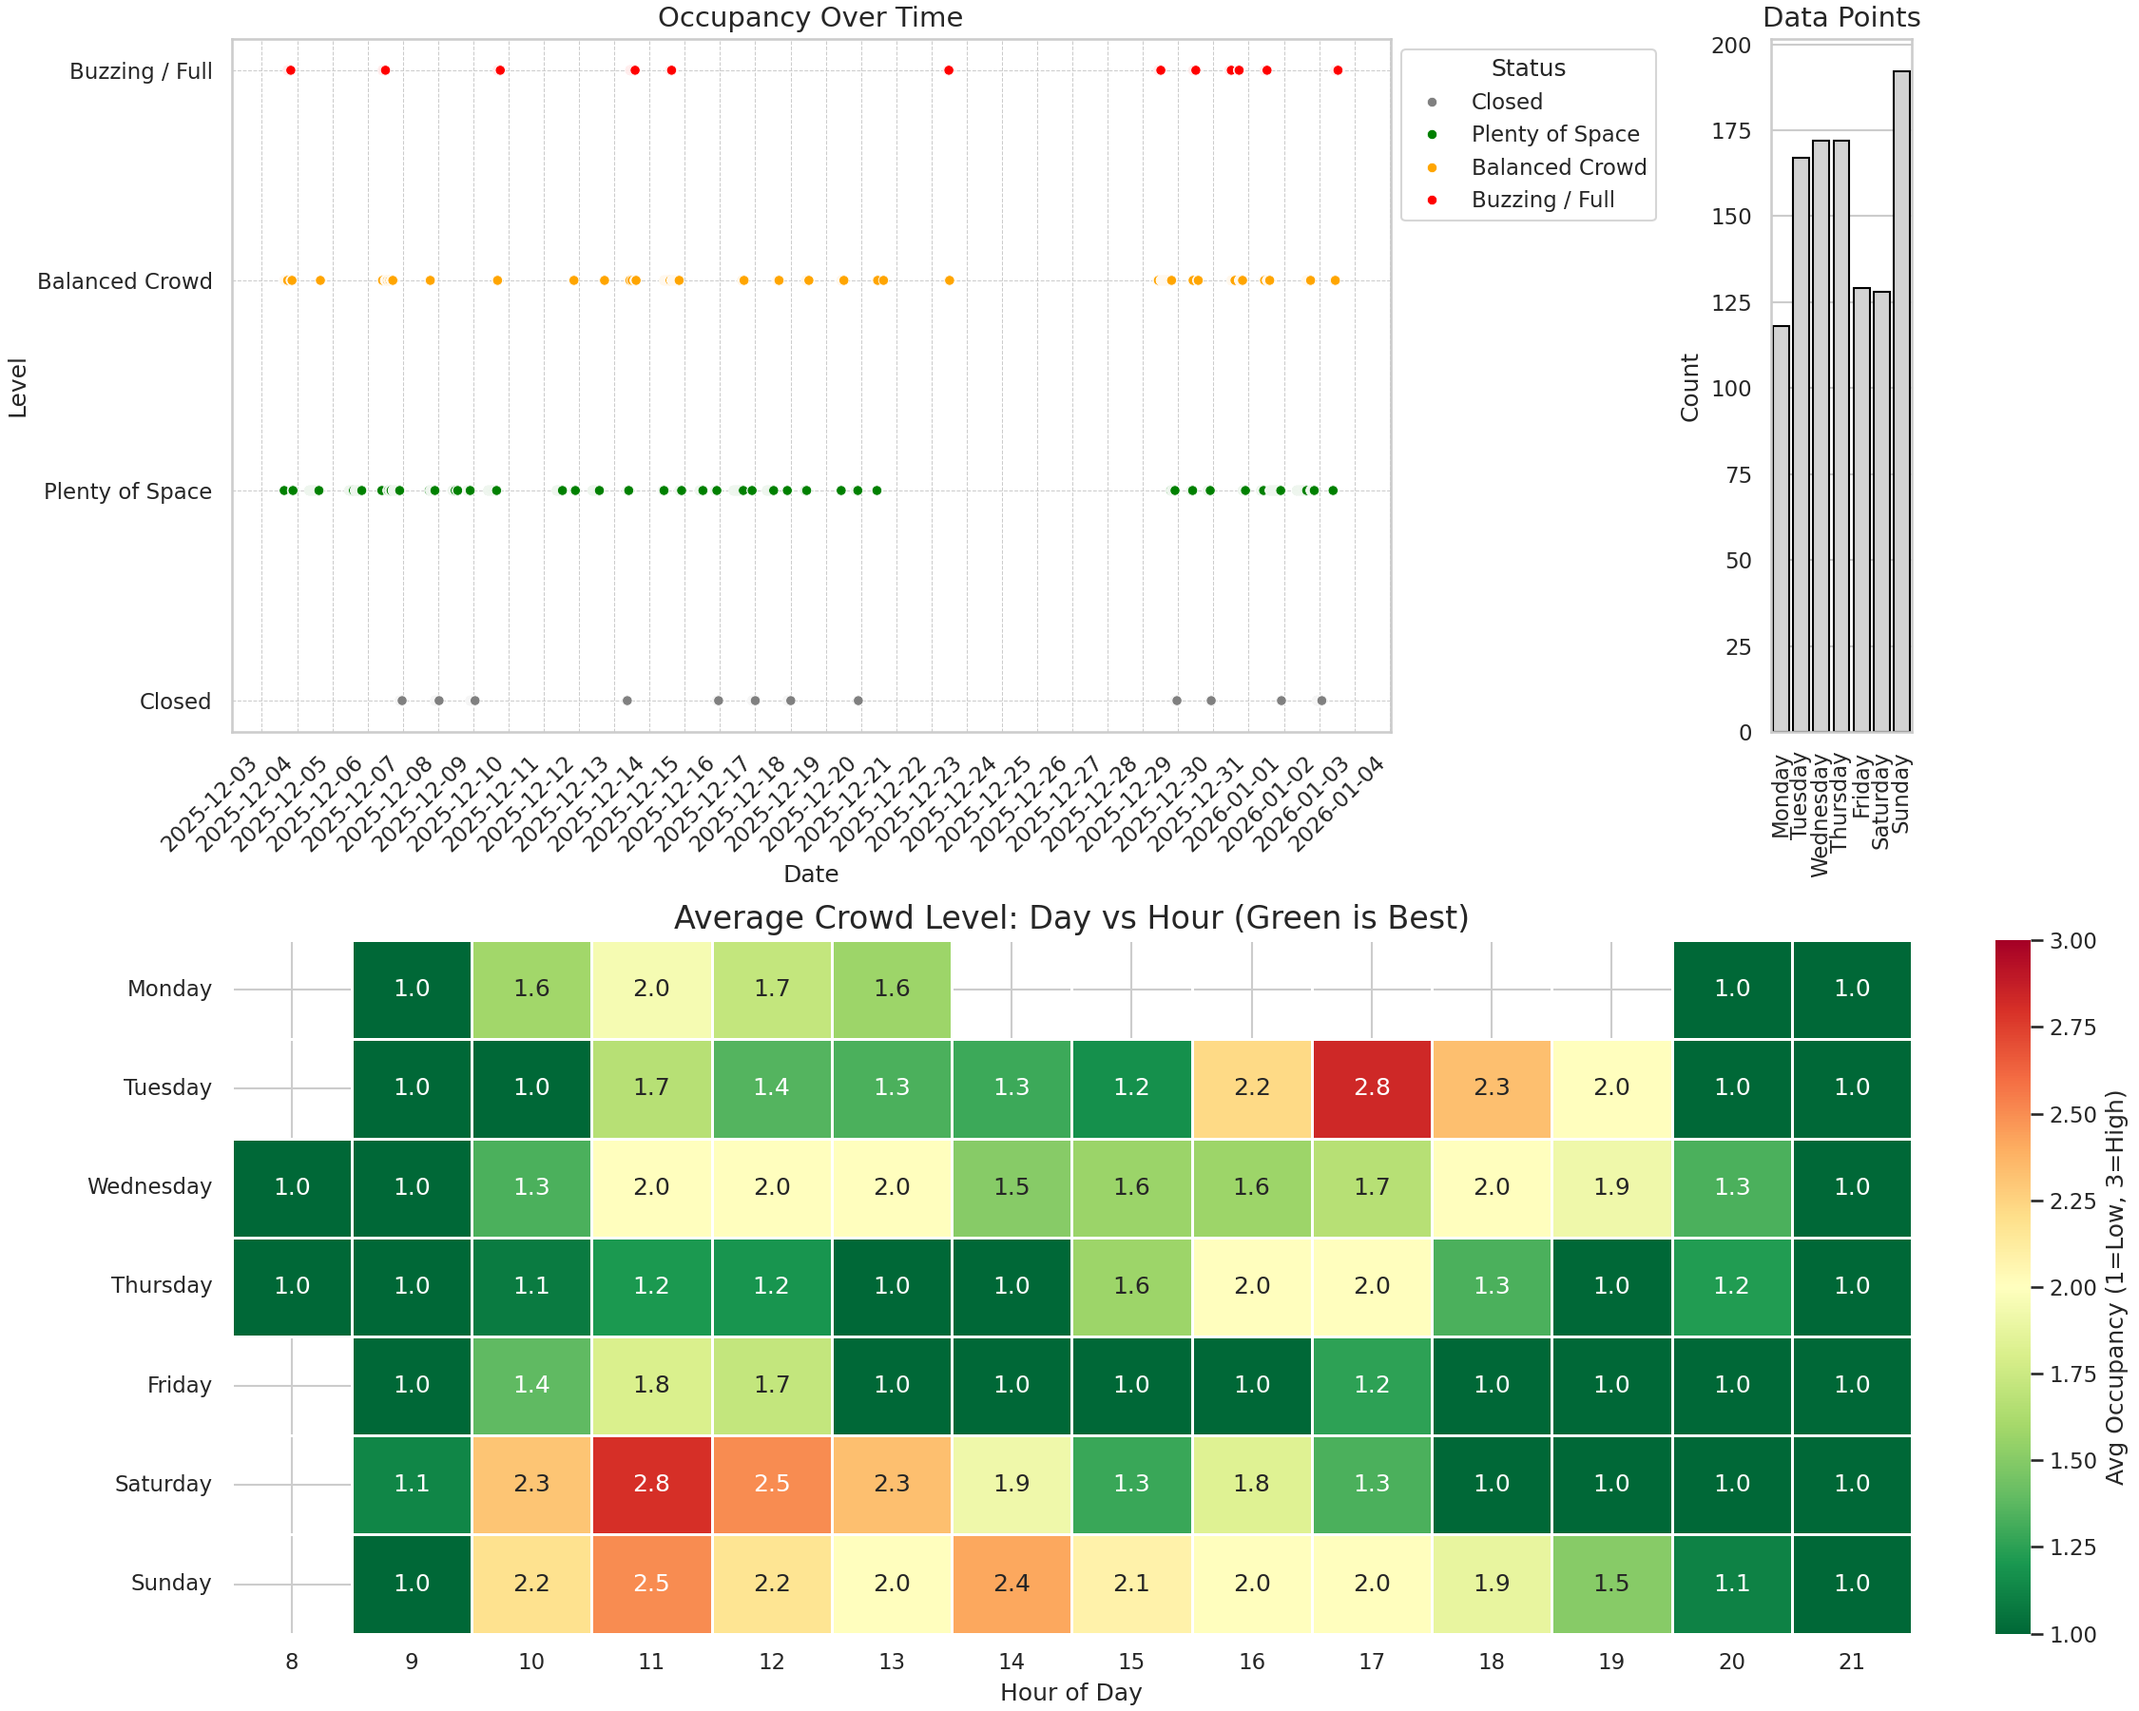
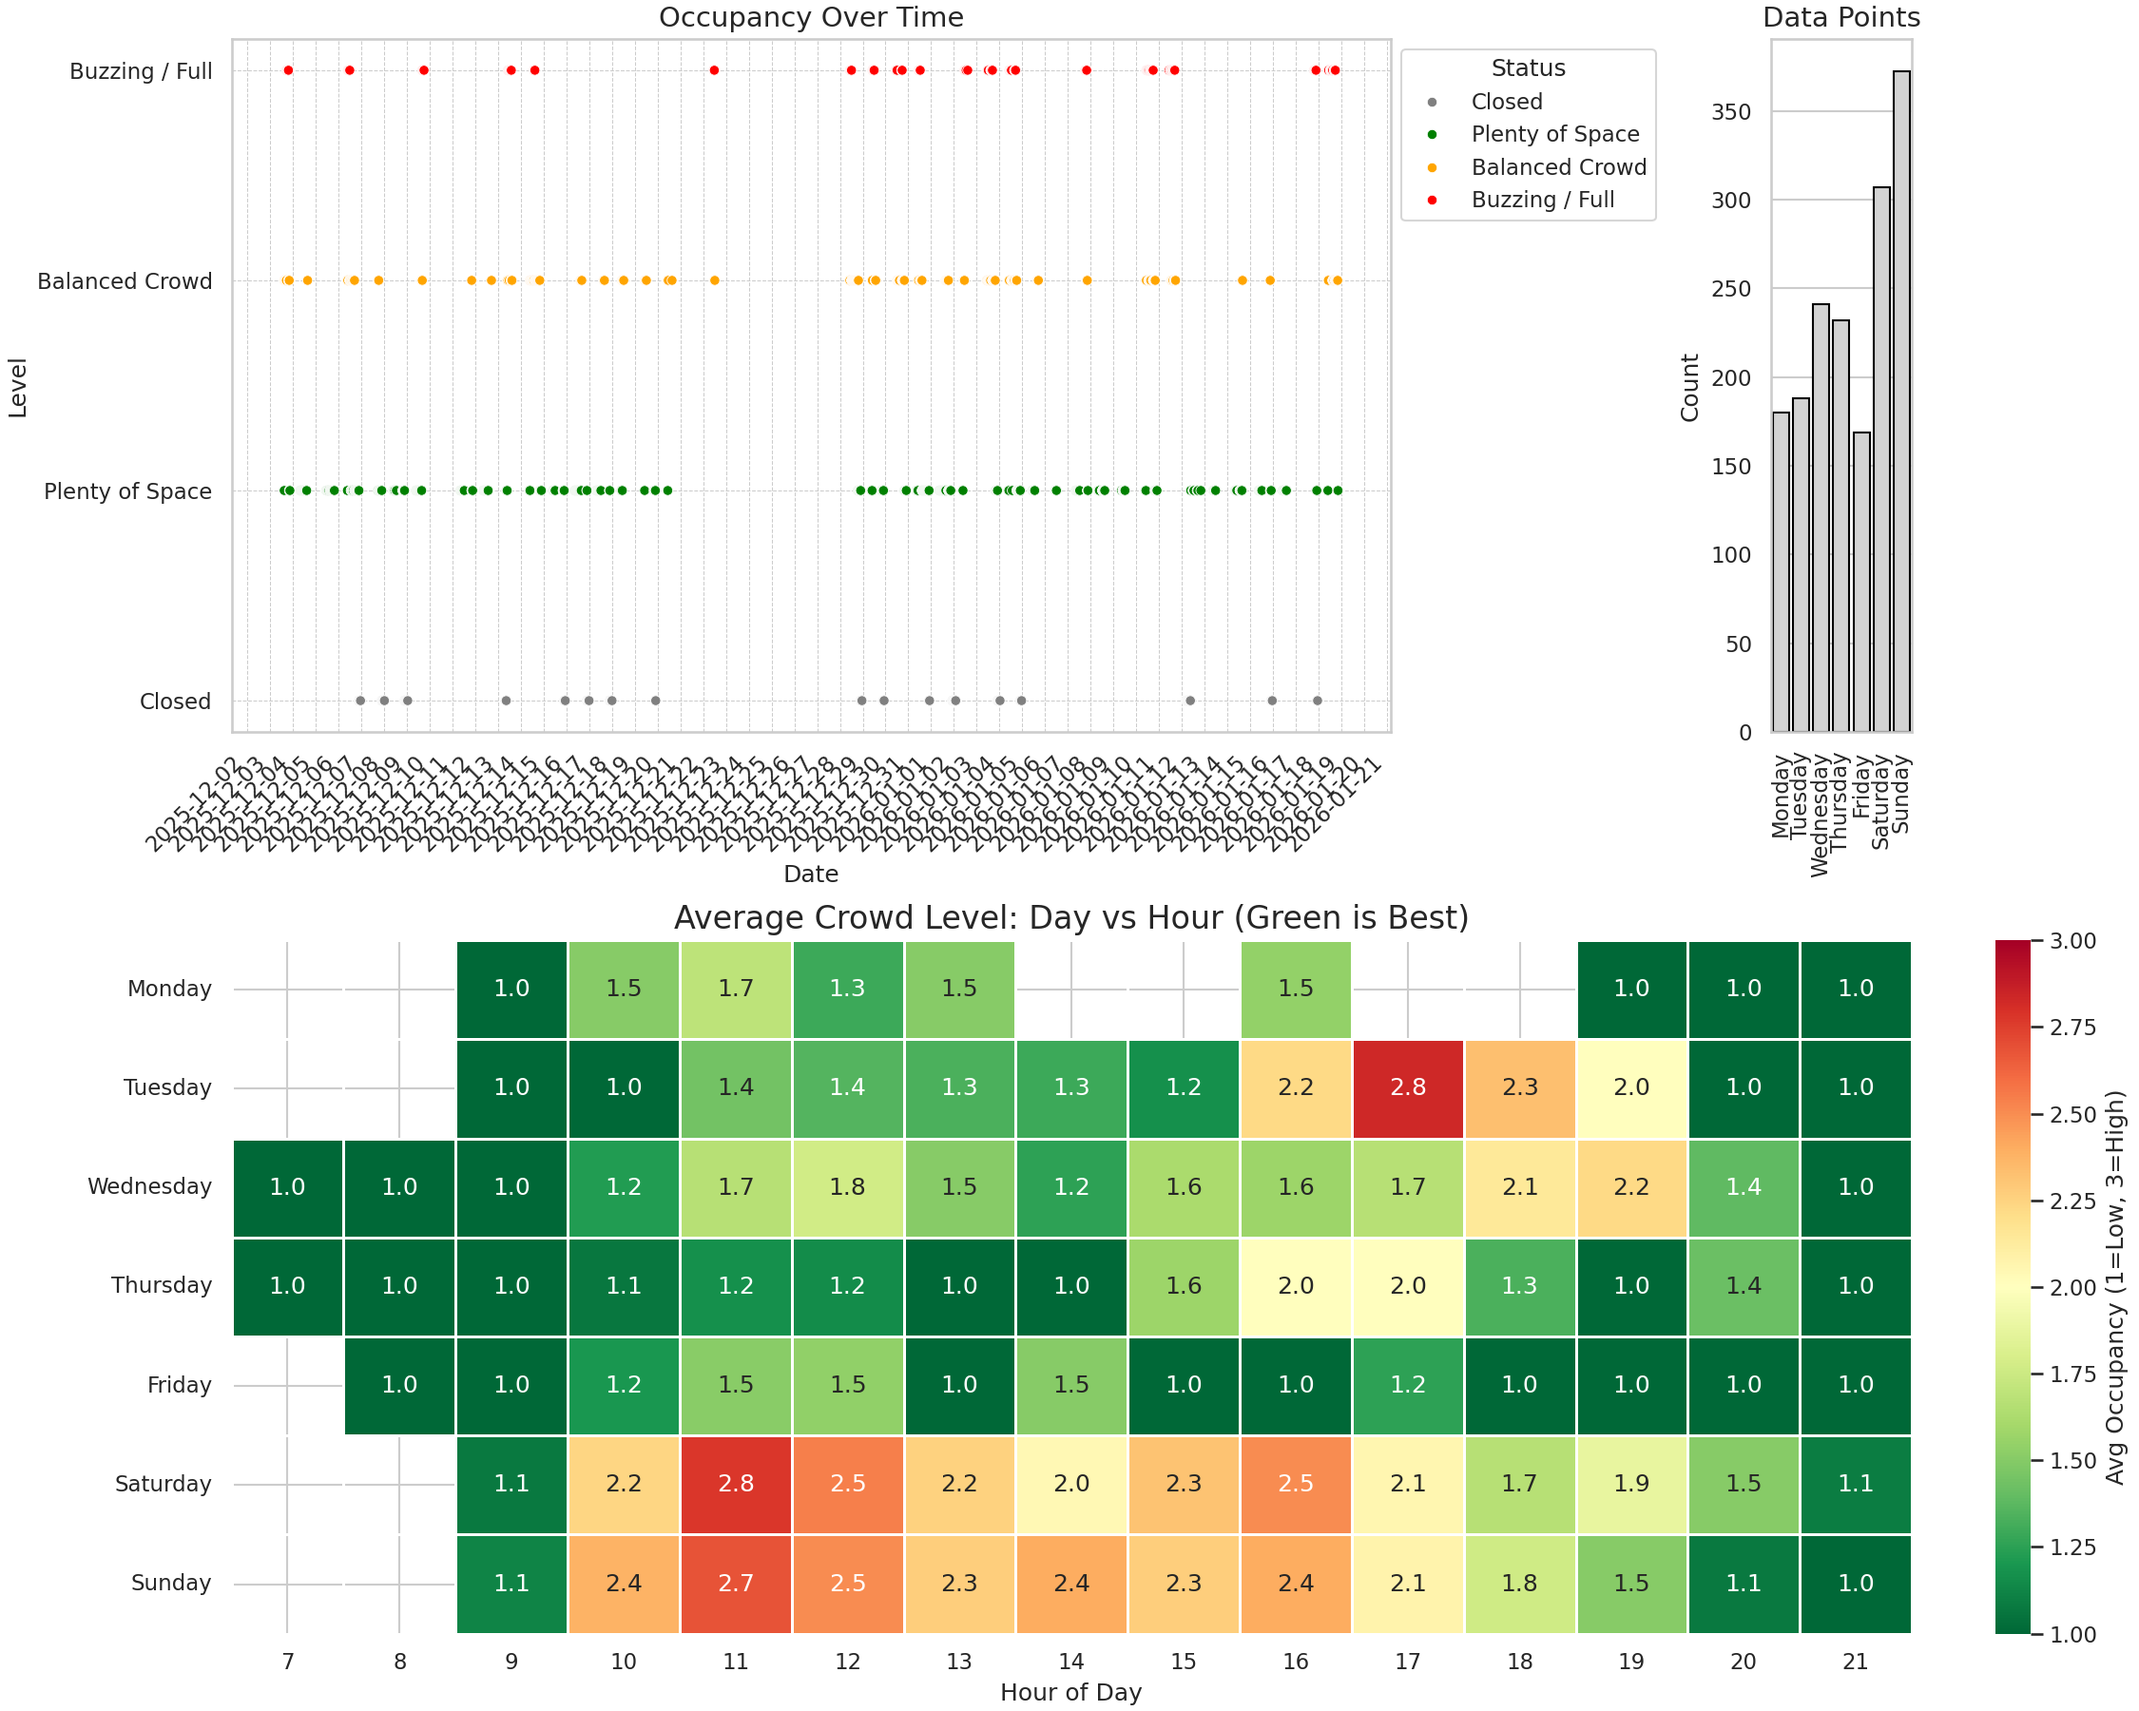
update occupancy plots and embed them in README

diff --git a/README.md b/README.md
@@ -54,8 +54,9 @@ python src/main.py --source hangar
 
 ## Visualization and Analysis
 
-You can visualize the collected crowd data for **Hangar Brno** using the included script.
+You can visualize the collected crowd data using the included scripts.
 
+### Hangar Brno
 ```bash
 python3 visualize_hangar_crowd.py --file data/hangar.csv
 ```
@@ -63,9 +64,24 @@ python3 visualize_hangar_crowd.py --file data/hangar.csv
 This will:
 1.  Generate **`hangar_plots.png`** containing:
     -   A time-series plot of crowd levels.
-    -   Average occupancy by hour of the day.
-    -   Average occupancy by day of the week.
-2.  Print a summary analysis to the console, including optimal visiting times.
+    -   Data availability counts per day.
+    -   Average occupancy heatmap (Day vs Hour).
+2.  Print a summary analysis to the console.
+
+![Hangar Occupancy](hangar_plots.png)
+
+### Luzanky Pool
+```bash
+python3 visualize_luzanky_crowd.py --file data/luzanky.csv
+```
+
+This will:
+1.  Generate **`luzanky_plots.png`** containing:
+    -   Pool utilization over time.
+    -   Average crowdedness heatmap (Day vs Hour).
+2.  Print a summary analysis to the console.
+
+![Luzanky Occupancy](luzanky_plots.png)
 
 
 ## Scheduling with Cron
